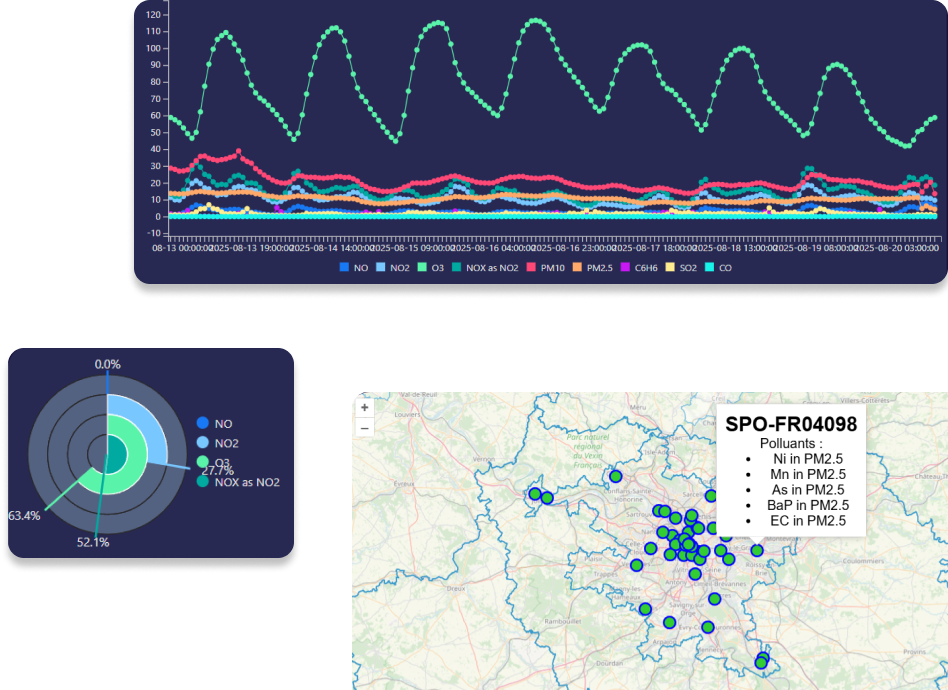
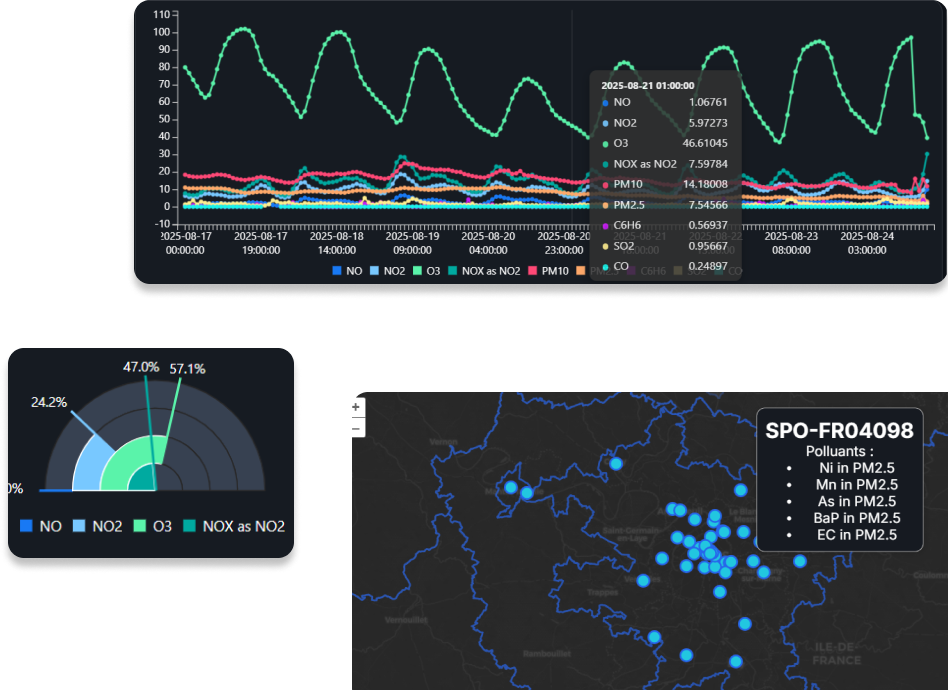
Leger Ajout

diff --git a/app/(projects)/DetailProject/DashBoard.tsx b/app/(projects)/DetailProject/DashBoard.tsx
@@ -142,6 +142,17 @@ const Dashboard = () => {
           meilleure ergonomie mobile avec un affichage responsive adapté aux
           différents supports.
         </p>
+        <p>
+          Lors de la réalisation de ce portfolio, j'ai légèrement retouché
+          certains aspects du design du Dashboard, mais je ne suis pas allé plus
+          loin. Voici la capture de l'ancien design, réalisé en mars 2024.
+        </p>
+        <img
+          src="/image/Dashboard/old_dark_dashboard.png"
+          width="100%"
+          style={{ borderRadius: 8, margin: 8 }}
+          alt="Dashboard Presentation"
+        />
       </section>
       <section id="apprentissage" style={sectionStyle}>
         <header style={{ marginBottom: 20 }}>
